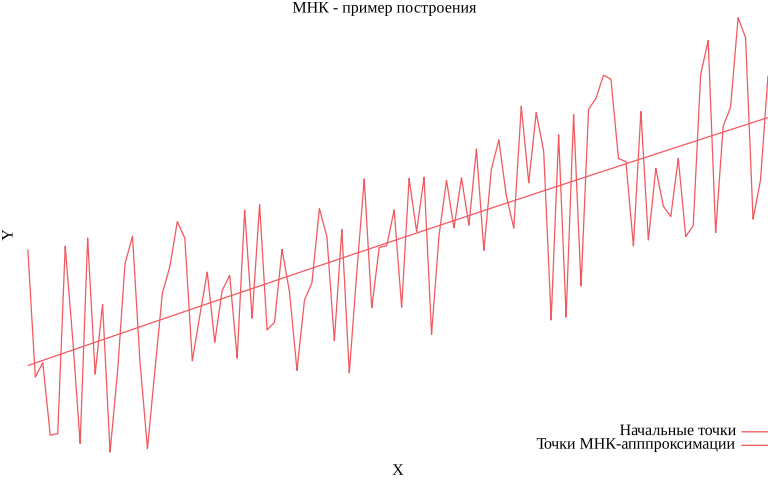
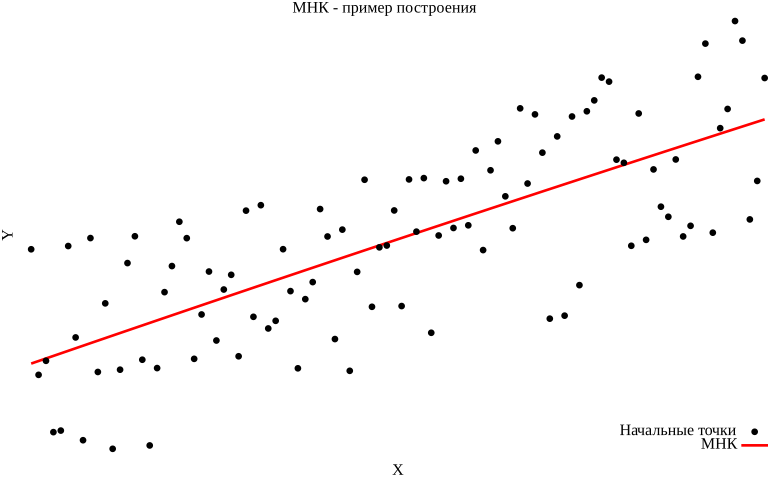
Drawing graph boosted

diff --git a/main.go b/main.go
@@ -2,13 +2,14 @@ package main
 
 import (
 	"fmt"
+	"image/color"
 	"math/rand"
 
 	"gonum.org/v1/gonum/mat"
 	"gonum.org/v1/plot"
 	"gonum.org/v1/plot/plotter"
-	"gonum.org/v1/plot/plotutil"
 	"gonum.org/v1/plot/vg"
+	"gonum.org/v1/plot/vg/draw"
 )
 
 // FlatPlotPoints repesents data of some function values y = f(x)
@@ -53,21 +54,33 @@ func generateBaseData(size int) *FlatPlotPoints {
 	return &FlatPlotPoints{xs, ys}
 }
 
-func drawData(points ...*FlatPlotPoints) {
+func drawData(basePoints *FlatPlotPoints, lsPoints *FlatPlotPoints) {
 	p := plot.New()
-	descrs := []string{"Начальные точки", "Точки МНК-апппроксимации"}
-	for pointsIndex := 0; pointsIndex < len(points); pointsIndex++ {
-		pts := make(plotter.XYs, points[pointsIndex].xs.Len())
-		for i := range pts {
-			pts[i].X = points[pointsIndex].xs.AtVec(i)
-			pts[i].Y = points[pointsIndex].ys.AtVec(i)
-		}
-		plotutil.AddLines(p, descrs[pointsIndex], pts)
+	// descrs := []string{"Начальные точки", "Точки МНК-апппроксимации"}
+	pts := make(plotter.XYs, basePoints.xs.Len())
+
+	for i := range pts {
+		pts[i].X = basePoints.xs.AtVec(i)
+		pts[i].Y = basePoints.ys.AtVec(i)
 	}
+	lpPoints, _ := plotter.NewScatter(pts)
+	lpPoints.Shape = draw.CircleGlyph{}
+
+	for i := range pts {
+		pts[i].X = lsPoints.xs.AtVec(i)
+		pts[i].Y = lsPoints.ys.AtVec(i)
+	}
+	l, _ := plotter.NewLine(pts)
+	l.LineStyle.Width = 2
+	l.LineStyle.Color = color.RGBA{R: 255, A: 255}
+
 	p.Title.Text = "МНК - пример построения"
 	p.X.Label.Text = "X"
 	p.Y.Label.Text = "Y"
 	p.HideAxes()
+	p.Legend.Add("Начальные точки", lpPoints)
+	p.Legend.Add("МНК", l)
+	p.Add(l, lpPoints)
 
 	if err := p.Save(8*vg.Inch, 5*vg.Inch, "LeastSquaresExample.png"); err != nil {
 		panic(err)
